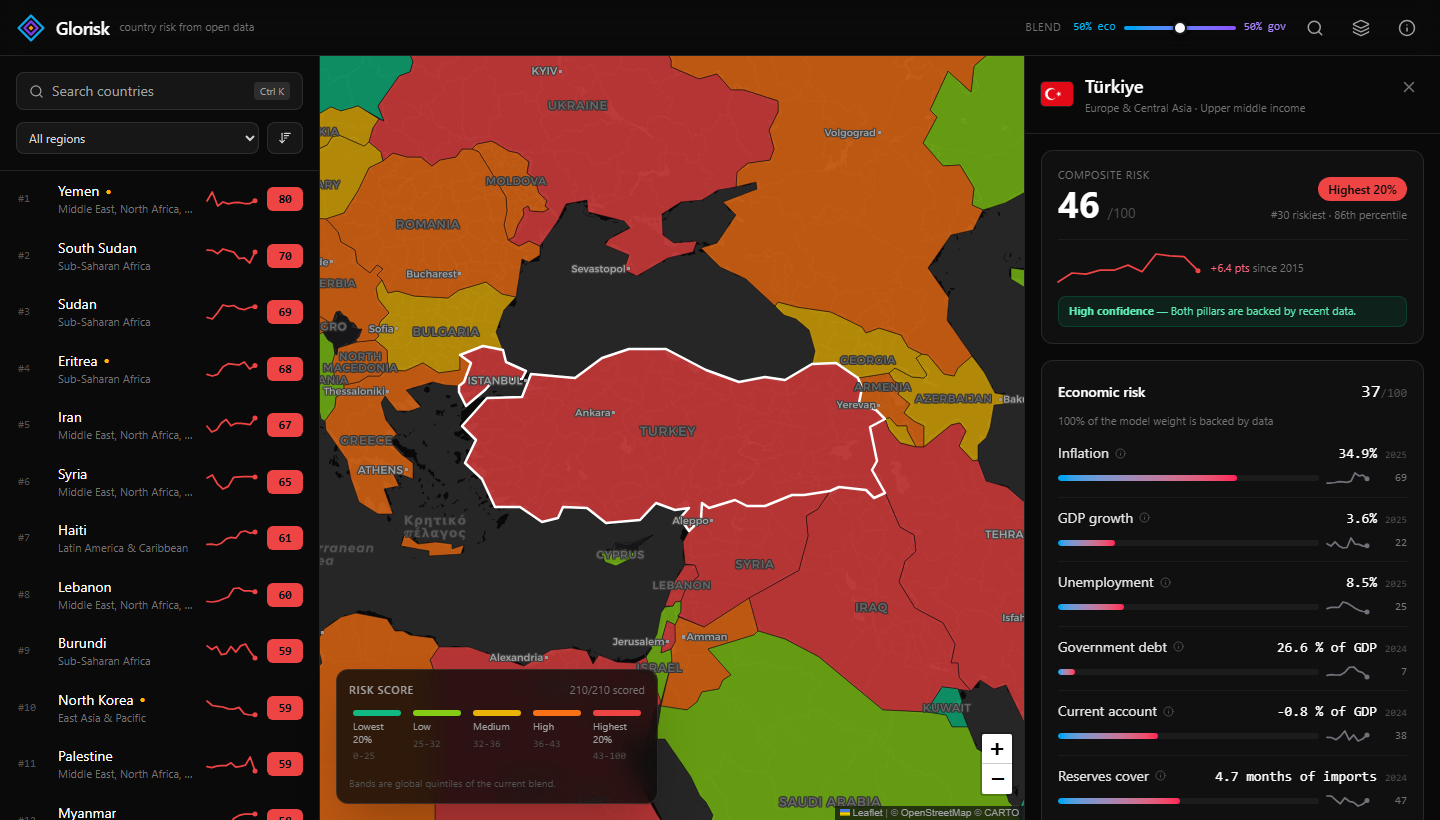
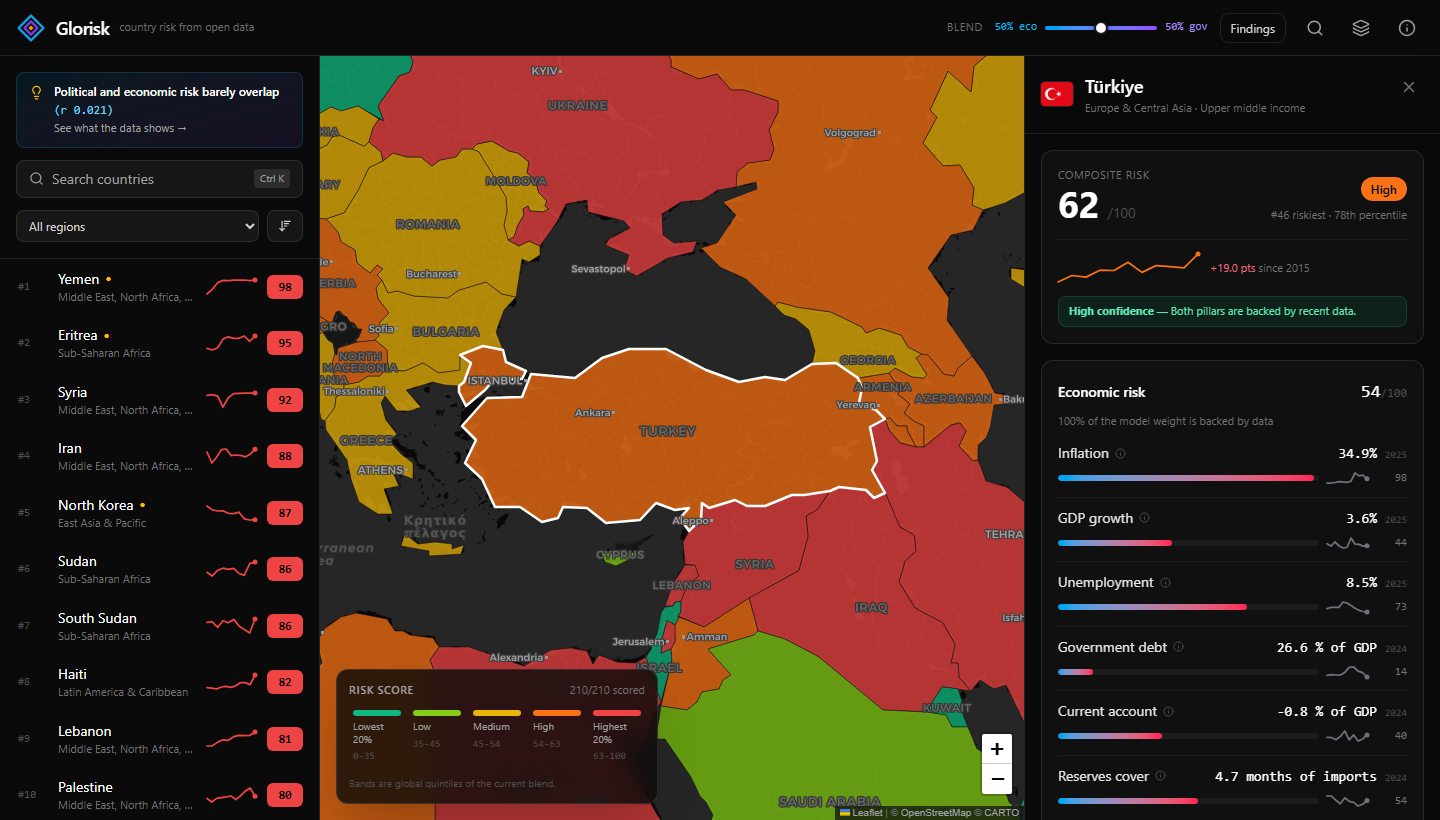
Make the findings and methodology views linkable

diff --git a/src/App.jsx b/src/App.jsx
@@ -45,11 +45,16 @@ function ErrorScreen({ error }) {
 export default function App() {
   const [urlState, setUrlState] = useUrlState();
   const [searchOpen, setSearchOpen] = useState(false);
-  const [methodologyOpen, setMethodologyOpen] = useState(false);
-  const [findingsOpen, setFindingsOpen] = useState(false);
   const [rankingOpen, setRankingOpen] = useState(false);
   const [basemap, setBasemap] = useState('dark');
   const isDesktop = useMediaQuery('(min-width: 1024px)');
+
+  const methodologyOpen = urlState.view === 'method';
+  const findingsOpen = urlState.view === 'findings';
+  // Addressable so a view can be linked, but replaced rather than pushed: Back
+  // should leave the site, not reopen a dialog.
+  const openView = useCallback((view) => setUrlState({ view }, { replace: true }), [setUrlState]);
+  const closeView = useCallback(() => setUrlState({ view: null }, { replace: true }), [setUrlState]);
 
   const weights = useMemo(
     () => ({ economic: urlState.economicWeight / 100, governance: 1 - urlState.economicWeight / 100 }),
@@ -61,7 +66,7 @@ export default function App() {
 
   const selectCountry = useCallback(
     (id) => {
-      setUrlState({ countryId: id });
+      setUrlState({ countryId: id, view: null });
       setRankingOpen(false);
     },
     [setUrlState],
@@ -94,7 +99,7 @@ export default function App() {
       bandFilter={urlState.band}
       onSelect={selectCountry}
       onOpenSearch={() => setSearchOpen(true)}
-      onOpenFindings={() => setFindingsOpen(true)}
+      onOpenFindings={() => openView('findings')}
       pillarCorrelation={meta?.diagnostics?.betweenPillars}
     />
   );
@@ -130,7 +135,7 @@ export default function App() {
 
           <button
             type="button"
-            onClick={() => setFindingsOpen(true)}
+            onClick={() => openView('findings')}
             className="rounded-lg border border-white/10 px-2.5 py-1.5 text-xs text-neutral-300 transition hover:border-white/25 hover:bg-white/5 hover:text-white"
           >
             Findings
@@ -162,7 +167,7 @@ export default function App() {
           </button>
           <button
             type="button"
-            onClick={() => setMethodologyOpen(true)}
+            onClick={() => openView('method')}
             aria-label="How the score is built"
             className="rounded-lg p-2 text-neutral-400 transition hover:bg-white/10 hover:text-white"
           >
@@ -227,7 +232,7 @@ export default function App() {
         meta={meta}
         generatedAt={generatedAt}
         thresholds={thresholds}
-        onClose={() => setMethodologyOpen(false)}
+        onClose={closeView}
       />
       <FindingsModal
         open={findingsOpen}
@@ -235,7 +240,7 @@ export default function App() {
         meta={meta}
         selectedId={urlState.countryId}
         onSelect={selectCountry}
-        onClose={() => setFindingsOpen(false)}
+        onClose={closeView}
       />
 
       <p className="sr-only" aria-live="polite">

diff --git a/src/lib/useUrlState.js b/src/lib/useUrlState.js
@@ -1,15 +1,19 @@
 import { useCallback, useEffect, useState } from 'react';
 
-const KEYS = { country: 'c', weight: 'w', band: 'band' };
+const KEYS = { country: 'c', weight: 'w', band: 'band', view: 'view' };
+
+const VIEWS = ['findings', 'method'];
 
 function readFromLocation() {
   const params = new URLSearchParams(window.location.search);
   const rawWeight = params.get(KEYS.weight);
   const weight = rawWeight === null ? Number.NaN : Number(rawWeight);
+  const view = params.get(KEYS.view);
   return {
     countryId: params.get(KEYS.country)?.toUpperCase() || null,
     economicWeight: Number.isFinite(weight) && weight >= 0 && weight <= 100 ? weight : 50,
     band: params.get(KEYS.band) || 'all',
+    view: VIEWS.includes(view) ? view : null,
   };
 }
 
@@ -21,6 +25,8 @@ function writeToLocation(state, { replace = false } = {}) {
   else params.delete(KEYS.weight);
   if (state.band !== 'all') params.set(KEYS.band, state.band);
   else params.delete(KEYS.band);
+  if (state.view) params.set(KEYS.view, state.view);
+  else params.delete(KEYS.view);
 
   const query = params.toString();
   const url = `${window.location.pathname}${query ? `?${query}` : ''}`;
